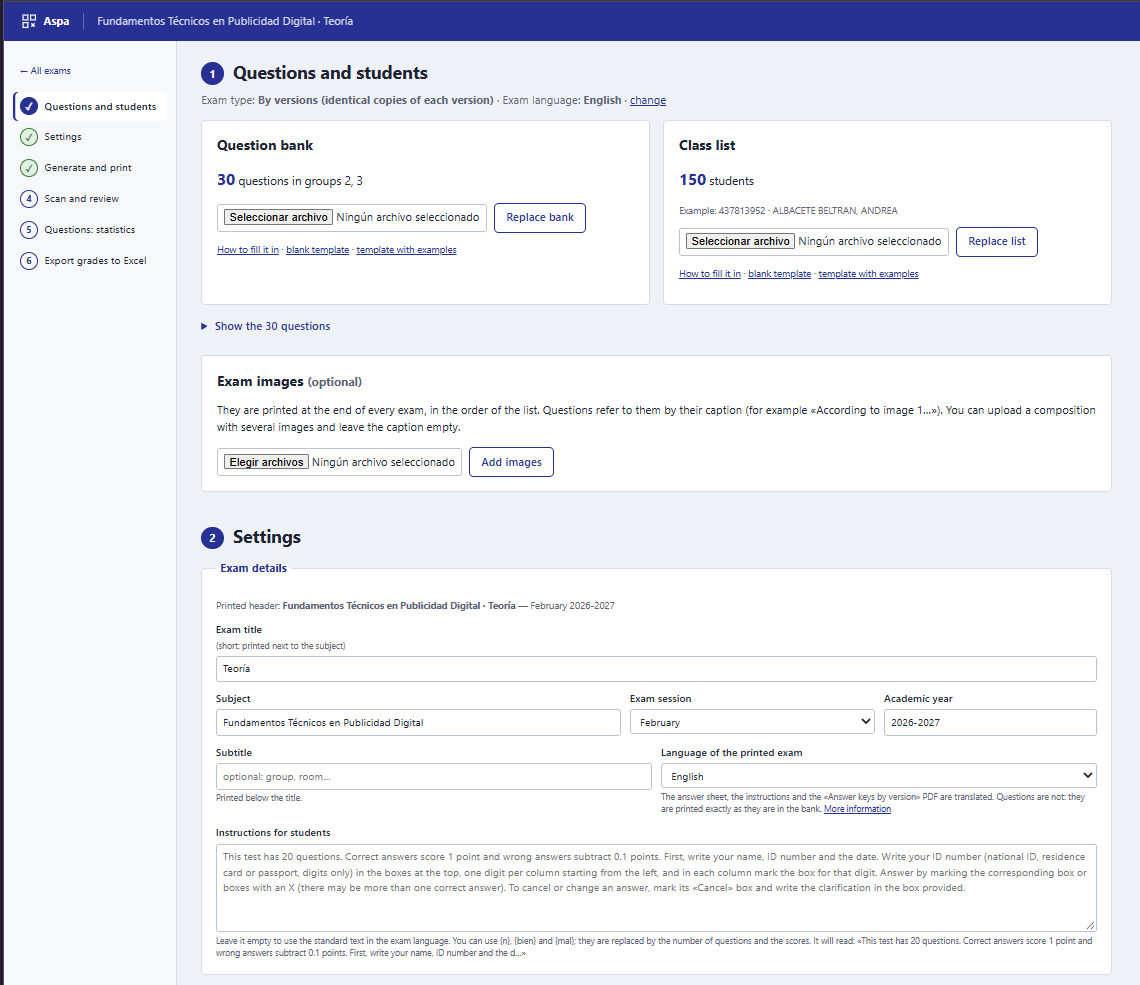
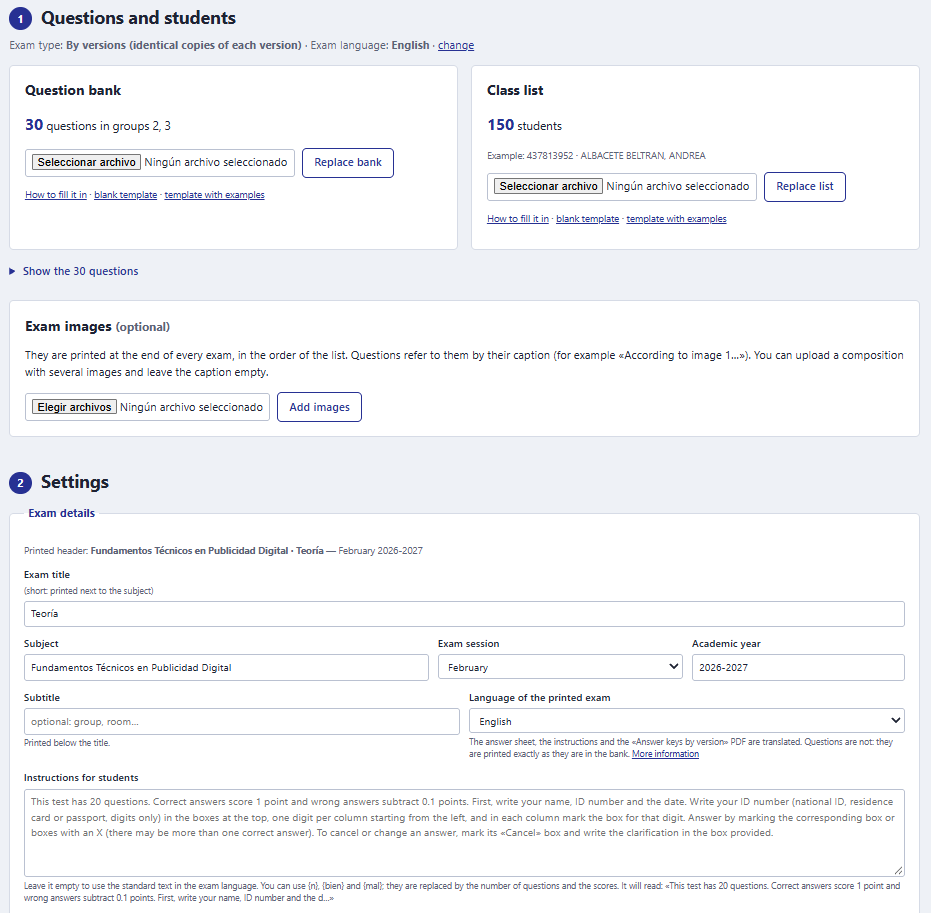
DOI and affiliations

Changed region(s): [[0.0, 0.0, 1.0, 1.0], [0.1869, 0.3067, 0.2803, 0.3373]]

diff --git a/SoftwareX/softwarex-osp-template.tex b/SoftwareX/softwarex-osp-template.tex
@@ -67,7 +67,7 @@
 \author[uca]{José Miguel Mota-Macías}
 \cortext[cor1]{Corresponding author.}
 
-\address[uca]{Department of Computer Science and Engineering, School of Engineering, University of Cádiz, Avda.\ de la Universidad de Cádiz 10, 11519 Puerto Real, Cádiz, Spain \todo{check department and address}}
+\address[uca]{Department of Computer Science and Engineering, School of Engineering, University of Cádiz, Avda.\ de la Universidad de Cádiz 10, 11519 Puerto Real, Cádiz, Spain}
 
 \begin{abstract}
 Grading paper-based multiple-choice exams requires either proprietary optical readers or tools that demand \LaTeX{} or programming skills. Aspa is a local web application that covers the complete cycle: it generates exam versions from a spreadsheet question bank, prints answer sheets with fiducial markers and a QR code, reads scans and mobile-phone photographs with computer vision, grades with negative marking and partial credit, and supports the review of each sheet with the student. It also generates personalised exams that omit the questions each student has already passed during the course. All processing is local, so students' data never leave the teacher's computer.
@@ -93,7 +93,7 @@ Multiple-choice exams \sep Optical mark recognition \sep Automated grading \sep 
 \hline
 \textbf{Nr.} & \textbf{Code metadata description} & \textbf{Please fill in this column} \\
 \hline
-C1 & Current code version & v1.0.0 \\
+C1 & Current code version & v1.0.0 (\url{https://doi.org/10.5281/zenodo.23571011}) \\
 \hline
 C2 & Permanent GitHub link to code/repository used for this code version & \url{https://github.com/lorenagmad/Aspa} \\
 \hline
@@ -154,7 +154,7 @@ Aspa was developed at the University of Cádiz to replace an in-house tool based
 \section{Software description}
 \label{sec:description}
 
-Aspa~1.0.0 is a Python application served by Flask on \file{127.0.0.1} and used through the browser. Launch scripts for Windows, macOS and Linux create a virtual environment and install the dependencies; a PyInstaller script builds a standalone executable. The interface is available in Spanish and English, and languages are added as JSON files.
+Aspa~1.0.0~\cite{aspa} is a Python application served by Flask on \file{127.0.0.1} and used through the browser. Launch scripts for Windows, macOS and Linux create a virtual environment and install the dependencies; a PyInstaller script builds a standalone executable. The interface is available in Spanish and English, and languages are added as JSON files.
 
 \subsection{Software architecture}
 \label{sec:architecture}
@@ -365,6 +365,8 @@ We thank José Carlos Collado Machuca, who created the Excel-based tool that pre
 
 \bibitem{alonso2022} F.~Alonso-Fernandez, J.~Bigun, Continuous examination by automatic quiz assessment using spiral codes and image processing, in: Proc.\ 13th IEEE Global Engineering Education Conference (EDUCON), Tunis, 2022. \url{https://arxiv.org/abs/2201.11228}
 
+\bibitem{aspa} L.~Gutiérrez-Madroñal, R.~Baena-Pérez, J.~M. Mota-Macías, Aspa v1.0.0, Zenodo, 2026. \url{https://doi.org/10.5281/zenodo.23571011}
+
 \bibitem{opencv} G.~Bradski, The OpenCV library, Dr.\ Dobb's Journal of Software Tools 25~(11) (2000) 120--125.
 
 \bibitem{garrido2014} S.~Garrido-Jurado, R.~Muñoz-Salinas, F.~J. Madrid-Cuevas, M.~J. Marín-Jiménez, Automatic generation and detection of highly reliable fiducial markers under occlusion, Pattern Recognition 47~(6) (2014) 2280--2292. \url{https://doi.org/10.1016/j.patcog.2014.01.005}
@@ -374,7 +376,7 @@ We thank José Carlos Collado Machuca, who created the Excel-based tool that pre
 \section*{Current executable software version}
 \label{sec:execversion}
 
-Aspa is run from source with the launch scripts of the repository; a standalone executable can be built with \file{herramientas/crear_ejecutable.py} \todo{add the link to the release with executables, if published}.
+Aspa is run from source with the launch scripts of the repository (\url{https://github.com/lorenagmad/Aspa}); a standalone executable can be built with \file{herramientas/crear_ejecutable.py}.
 
 \end{document}
 \endinput

diff --git a/SoftwareX/plan/chapter_plan.md b/SoftwareX/plan/chapter_plan.md
@@ -1,0 +1,166 @@
+# Aspa — SoftwareX Chapter Plan + INSIGHT Collection
+
+Produced in ARS `plan` mode (Socratic dialogue), 21–22 October 2026.
+All claims below are in the author's words or were explicitly confirmed by the author.
+This is a plan, not text for the article: the rewrite happens after the February trial.
+
+---
+
+## 1. Configuration
+
+| Item | Decision |
+|---|---|
+| Journal / type | SoftwareX, Original Software Publication (OSP template) |
+| Language | English |
+| Structure | The 5 mandatory template sections: Motivation and significance · Software description · Illustrative examples · Impact · Conclusions |
+| Length | ≤ 4,000 words (priority) and ≤ 6 pages excluding metadata, tables, figures and references |
+| Figures | Max. 6 → plan uses 4 |
+| Submission timing | After the February trial; "we have no deadline" — wait until all evidence is in |
+
+## 2. Thesis and contribution
+
+- **Thesis (confirmed):** "Aspa is a programme for generating and marking paper-based multiple-choice exams, which allows teachers to adapt it to the needs of their subject."
+- **Thesis type:** comparative, against other paper-based exam tools. Main strength: flexibility; second: efficiency. Moodle and online quizzes are out of scope.
+- **Distinguishing feature:** personalisation according to each student's progress. Aspa is criterion-neutral: "it's the teacher who decides which questions the student has passed."
+- **Contribution (W1):** "Aspa is a highly flexible tool that is easy to understand, and its configuration enables the continuous assessment required for the modules to be applied to students."
+- **Gap value (W2):** without Aspa, the teacher "would have to remove or cross out the questions the student has already completed … and remember, when marking their work, that these have already been completed. … with a large group of students, it is quite likely that there will be confusion and mistakes."
+- **Audience (W3):** "Readers may choose to use Aspa in their courses to speed up the marking of exams and improve the efficiency of the marking process."
+- **Closing line:** "Aspa: the exam generation and marking tool that can be adapted to assess any subject."
+
+## 3. Chapter Plan
+
+### Section 1 — Motivation and significance (~550–650 words; now ~450)
+
+- **Core argument:** efficiency is the hook and flexibility is the gap. Marking is slow, and "manually tailoring an exam to each student multiplies the work involved in setting and marking it, and in the end it simply doesn't get done." None of the existing tools personalises exams "according to the assessment in the subjects and the student's progress."
+- **Evidence:**
+  1. MCQ literature already in the draft (Haladyna, Ebel, Burton): the marking burden.
+  2. Two rationales for personalisation: mastery/exemption (Bloom 1968) **and** reward for participation in gamified quizzes. Cite **Gutiérrez-Madroñal & Collado Machuca (2018)**, verified: Kahoot quizzes, a ranking per topic, 0–5 questions removed per topic, counted as correct. Aspa is criterion-neutral.
+  3. Related software, plus the **comparison table** (see § 5).
+  4. Provenance: an in-house Excel-macro tool (created by J. C. Collado Machuca, used by the author since 2019, ≥3 subjects, ~1,300+ students). Personalisation was done by hand from 2017/18. The tool's problems became Aspa's requirements. Comparison is qualitative only.
+  5. The 6-step workflow stays here as the template's "experimental setting".
+- **Counter-argument → response:** "Existing tools already personalise (AMC)." → "Unlike AMC, Aspa generates the results based on the list of questions that have been answered correctly, counting them as correct without the need for any code."
+- **Strength:** Moderate, rising to Strong once the related-software check is done.
+
+### Section 2 — Software description (~850–950 words; now ~1,100)
+
+- **Core argument:** each limitation of the predecessor is solved by a visible design decision:
+
+  | Predecessor problem (author's words, condensed) | Aspa design decision |
+  |---|---|
+  | Configuration by editing cells, running macros from the Developer tab, deleting parts manually, worksheets of unclear purpose | One configuration form; question bank and class list uploaded as spreadsheets with example templates |
+  | Grading errors caused by misconfiguration | (1) simplified configuration; (2) grades never stored, always recomputed from plain files |
+  | Students wrote their ID on the outer border, so the sheet could not be read | **Reading:** QR code + clean fiducial border. **Identification:** redesigned digit grid, matched to the class list with wildcards and one-digit suggestions. In personalised exams the QR code also identifies the student |
+  | Multiple answers only via a workaround, and only 2 correct answers | Native multiple-answer keys (any subset of A–D), with template and explanation; partial or exact credit |
+
+- **Structure:** architecture (figure) → functionalities in workflow order: bank and class list → **Settings** (versions or personalised, images, 2–4 options, multiple answers, exam language independent of the interface, global weighting for correct and wrong answers) → answer sheet → reading → identification and flags → grading → review, statistics, export.
+- **Rewrite instructions (accepted, to apply in the later review):**
+  - Condense the reading (OMR) paragraph to 2–3 sentences and move the parameters (CLAHE, 7 mm kernel, thresholds, 220 dpi, 8 px/mm) to the README.
+  - State the grading rule in words and keep Table 2.
+  - Add images; state 2–4 options. Weighting is global; no per-question weights.
+- **No code snippet.**
+- **Strength:** Strong.
+
+### Section 3 — Illustrative examples (~600–700 words; now ~500)
+
+- **Core argument:** a teacher can run a whole continuous-assessment course, up to a personalised final exam, on paper, with reliable automatic reading.
+- **3.1 Teaching scenario** (fictitious data, the author's subject): bank with blocks → quizzes outside Aspa (Moodle) → teacher decides the passed questions → versioned **and** personalised final exams → scan → review → void or rekey → export. Timings on an **Intel Core i5-7600K @ 3.80 GHz**, an ordinary 2017 PC, which supports the efficiency claim.
+- **Phone example:** marks published the same day for a small sitting. The broader claim ("any exam session") depends on the paired February scan.
+- **3.2 Reading accuracy:** synthetic stress test (Table 3, 12,066 answers) **plus** February real sheets (anonymised): sheets read, flags by reason, manual corrections (`lecturas.json` vs `revision.json`).
+- **Screencast:** MP4 of the 6-step workflow, using fictitious data.
+- **Boundary with Section 4:** Section 3 = how Aspa performed; Section 4 = who uses it and what changed.
+- **Strength:** Strong (synthetic); real-data part pending February.
+
+### Section 4 — Impact (~600–700 words; now ~300)
+
+- **Core argument:** "Fewer mistakes, and consequently less stress and time saved." Personalisation that would not be done by hand becomes routine.
+- **Evidence:**
+  1. Teaching-innovation project since 2017/18, with a citable publication (2018, verified). Personalisation done by hand until the predecessor existed.
+  2. Author-approved sentence: "in most sittings some sheets had to be corrected by hand because of ID errors."
+  3. February trial: 2–3 subjects, different degrees, 3 teachers. Expected needs: different question counts, no personalisation, possibly multiple answers. The trial itself demonstrates the thesis.
+  4. Daily practice: preparation time, sheets reviewed by hand, flags by reason (measured in Section 3, interpreted here). Aspa removes the manual recalculation and re-entering of marks; the teacher only checks the sheets Aspa flags, each with a stated reason.
+  5. Research enabled: effects of rank-based personalisation on participation and grades; item analysis from exported per-option data. Keep only what is really planned.
+  6. Spread, stated honestly: early adoption; presentation at the UCA teaching-innovation call; AGPL; no commercial use.
+- **Strength:** Moderate. Impact is still mostly prospective and there are no external users yet.
+
+### Section 5 — Conclusions (~150–200 words)
+
+- **Core argument:** "Aspa: the exam generation and marking tool that can be adapted to assess any subject."
+- Recall: simpler configuration, a wider range of exam types, reliability and time saved, continuous assessment made routine. No new evidence.
+- **Limits:** up to 30 questions and 2–4 options, sized to the exams of these subjects ("the number of questions does not exceed 30 and we provide up to 4 answer options").
+- **Future work:** more questions; more options; use at other universities. "Validation on real scans" stays provisionally and is decided after February.
+- **Remove:** Moodle export; "eliminate manual corrections" wording.
+
+### Acknowledgements
+
+- J. C. Collado Machuca, creator of the Excel predecessor and co-author of the 2018 project.
+
+## 4. Argument stress test — final ratings
+
+| # | Sub-argument | Defence agreed with the author | Rating |
+|---|---|---|---|
+| A1 | No paper-based tool personalises by student progress | Targeted related-software check + table; AMC needs code | Moderate → Strong after the check |
+| A2 | Easiest | Both: "requires no programming or LaTeX" (table) **and** February usability data | Weak → Moderate |
+| A3 | Most comprehensive | Comparison table; drop columns every tool ticks | Moderate, pending verification |
+| A4 | Reader is reliable | Synthetic 12,066 answers + real February sheets | Strong |
+| A5 | Fewer mistakes, time saved | Qualitative sentence + February measures | Moderate |
+| A6 | Impact | 2018 publication + predecessor + multi-subject trial | Moderate |
+| — | "Why not ZipGrade, if I only want speed?" | "Anyone using ZipGrade will be posting their students' data online" (verify ZipGrade's data storage) | — |
+
+**Message order for the abstract:** flexibility (lead) → efficiency → local processing (no data leaves the teacher's computer). Do not write "GDPR-compliant".
+
+## 5. Comparison table
+
+Columns: personalisation by student progress · no programming/LaTeX required · images · scanner + phone reading · intuitive marking/review · real-time recalculation · local processing (no third-party data transfer). Weighting and languages dropped (author's decision, 22 Oct 2026).
+
+Rows: Aspa, AMC, R/exams, FormScanner, OMRChecker, ZipGrade, Remark OMR, plus any tool found by the targeted search. Drop any column that every tool ticks. Every cell must be checked against the tool's documentation.
+
+**Verified 22 Oct 2026 → see [comparison_table.md](comparison_table.md)** (cells, sources, wording consequences, new related work).
+
+## 6. Word budget
+
+| Section | Target | Current |
+|---|---|---|
+| 1 Motivation and significance | 550–650 | ~450 |
+| 2 Software description | 850–950 | ~1,100 |
+| 3 Illustrative examples | 600–700 | ~500 |
+| 4 Impact | 600–700 | ~300 |
+| 5 Conclusions | 150–200 | ~150 |
+| **Total** | **2,750–3,200** (limit 4,000) | ~2,500 |
+
+## 7. Pending tasks
+
+**Now (before February)**
+- [ ] Request the university's consent for the trial data, and find out whether individual student consent is also required.
+- [ ] Confirm the two colleagues' participation and what each subject needs.
+- [x] Targeted related-software search and cell verification (22 Oct 2026; see comparison_table.md). Eyegrade cells and O'Malley DOI verified; C4/C5 dropped, C7/C8 kept. Moodle Offline quiz: excluded (author's decision).
+- [ ] Regenerate the Settings screenshots (a)(b) with fictitious data if needed.
+- [ ] Record the screencast (fictitious data).
+- [ ] Add the 2018 proceedings paper to the bibliography: pp. 54–59 (confirmed by the author), ISBN 978-84-09-04190-9.
+- [ ] Fill `\todo`s: processor model (i5-7600K @ 3.80 GHz), address/department, link to an executable release.
+- [ ] README: add the OMR parameters moved out of the paper.
+
+**February trial (≥ 40 sheets per group)**
+- [ ] Scan the same sheets with the scanner **and** the phone (paired comparison).
+- [ ] Check every sheet by hand once (ground truth); compare `lecturas.json` with `revision.json`.
+- [ ] Record preparation time, flags by reason, manual corrections, and the settings each subject used.
+
+**Applied to the .tex on 22 Oct 2026 (changes that don't depend on February):** Motivation (bridge sentence, two rationales + 2018/O'Malley/Alonso-Fernandez citations, related work corrected, Eyegrade, predecessor), comparison Table 2, settings Figure 2, images and 2–4 options, design fixes (recomputed grades, QR/grid), processor, Use paragraph (Feb data still `\todo`), Conclusions (limits, future work, Moodle removed), Acknowledgements (Collado). No cuts yet.
+
+**Rewrite (after February)**
+- [ ] Apply the section plans above, the rewrite instructions in Section 2, and the removals in Section 5.
+- [ ] Declarations required by Elsevier: competing interests, CRediT, ethics/consent statement for the trial data.
+
+## 8. INSIGHT Collection
+
+- `thesis_statement`: see § 2 (confirmed).
+- `provenance`: Excel-macro predecessor by J. C. Collado Machuca; author's use since 2019; ≥3 subjects; ~1,300+ students.
+- `origin_personalisation`: gamified quizzes (Kahoot, later Moodle) → ranking per block → best students get questions counted as correct; published 2018.
+- `predecessor_failures`: complex configuration; occasional grading failures; personalisation as a separate version; multiple answers patched in, max. 2; students' ID errors.
+- `requirement_to_design`: § 3, Section 2 table.
+- `gap`: "None has the option to personalise exams according to the assessment in the subjects and the student's progress."
+- `mobile_use_case`: special or second sittings; publish marks the same day.
+- `personalisation_v1`: confirmed in v1.0; the teacher removes the questions of any block a student has passed.
+- `trial_measures`: preparation time; exams marked by hand; sheets reviewed in Aspa by reason (ID not on the list, doubtful ID marks, doubtful answer marks); perceived simplicity.
+- `scope_decisions`: Moodle out; images in; global weighting; 2–4 options; limits in Conclusions; no code snippet; old vs. new sheet comparison as text only.
+- `contribution_claim`, `contribution_gap_value`, `contribution_audience`: § 2.
+- `future_work`: >30 questions; >4 options; other universities; real-scan validation decided after February.

diff --git a/SoftwareX/plan/comparison_table.md b/SoftwareX/plan/comparison_table.md
@@ -1,0 +1,94 @@
+# Comparison table: verified cells (checked 22 October 2026)
+
+Every cell for the other tools comes from the tool's own documentation, repository or website (sources below).
+Aspa's row was checked against its code.
+Legend: ✓ yes · ◐ partial · ✗ no · ? not documented (do **not** write "no" in the paper) · N/A the tool does not produce exam papers.
+
+## Columns
+
+| ID | Column | Definition used for checking |
+|---|---|---|
+| C1 | Personalisation by student progress | One exam per student that omits the questions that student passed, which then count as correct when grading, built in |
+| C2 | No programming/LaTeX required | The full create → grade workflow works from a GUI or spreadsheets |
+| C3 | Images | Images can be included in the exam paper |
+| C6 | Scanner + phone reading | Documented reading of both scanner images and phone photographs |
+| C7 | Interactive review | GUI showing the scan with detected marks, editable |
+| C8 | Real-time recalculation | Changing the key, voiding a question or changing scoring regrades without rescanning |
+| C9 | Local processing | Student data and scans are processed on the teacher's machine; no third-party transfer |
+
+## Table
+
+| Tool | C1 | C2 | C3 | C6 | C7 | C8 | C9 | Generates exams | Licence |
+|---|---|---|---|---|---|---|---|---|---|
+| **Aspa** | ✓ | ✓ | ✓ | ✓ | ✓ | ✓ | ✓ | ✓ | AGPL-3.0 |
+| AMC | ✗ (only with hand-written LaTeX) | ◐ (questions in LaTeX/AMC-TXT) | ✓ | ? | ✓ | ✓ | ✓ | ✓ | GPLv2+ |
+| R/exams | ✗ (only with R code) | ✗ | ✓ | ? | ◐ (from R) | ◐ (R code) | ✓ | ✓ | GPL-2/3 |
+| FormScanner | ✗ | ◐ (cannot create exams) | N/A | ? | ✓ | ? | ✓ | ✗ | GPLv3 |
+| OMRChecker | ✗ | ✗ (CLI + JSON) | N/A | ✓ | ✗ | ◐ | ✓ | ✗ | MIT |
+| ZipGrade | ✗ | ✓ | N/A | ✓ | ✓ | ? | ✗ (syncs by default; can be disabled) | answer sheets only | proprietary |
+| Remark OMR | ✗ | ✓ | N/A | ? | ✓ | ✓ | ✓ (optional cloud OCR add-on) | ✗ | proprietary |
+| Eyegrade | ✗ (models A, B, C… only) | ◐ (questions in XML + LaTeX template, or word processor with manual configuration) | ✓ | ◐ (live webcam only; scans/photos not documented) | ✓ | ? | ✓ | ✓ | GPLv3+ |
+
+Eyegrade cells were checked against its user manual (eyegrade.org/doc/user-manual/, §§2, 2.4, 2.8, 4.1.1, 4.2, 5.2) on 22 Oct 2026.
+
+## What this changes in the paper
+
+1. **The unique claim survives, provided it is worded precisely.** No tool checked offers C1 as a **built-in, no-code** feature. AMC can do something similar only if the teacher writes LaTeX: its grading normalises each copy by its own perfect score, so omitted questions are neutral, not credited. R/exams needs an R loop. OMRChecker can give "bonus marks" per folder by editing JSON, but it does not generate exams.
+   - Safe wording: "none provides it as a built-in feature that requires no code".
+   - Avoid "no tool can".
+2. **ZipGrade:** "syncs scores, student information and scan images to its servers by default" (privacy policy, effective 3 June 2021). Teachers can turn the sync off.
+   - Do **not** write "ZipGrade users must put student data online".
+3. **Phone reading:** only ZipGrade and OMRChecker document it. For AMC, R/exams, FormScanner and Remark it is undocumented. Write "documented support", never "cannot".
+4. **Correction to the current draft:** the draft says FormScanner and OMRChecker "neither generate nor grade versioned exams". OMRChecker **does grade** (`evaluation.json`, negative marking, weighted combinations). Rewrite as "read and score answer sheets but do not generate exams".
+5. **The draft's AMC claim stands with nuance:** "runs only on Linux and macOS". Windows is possible only through WSL or a VM.
+
+## Columns dropped (author's decision, 22 Oct 2026)
+
+- **C4 Weighting:** dropped, because every tool that grades offers it.
+- **C5 Languages:** dropped for the v1.0 comparison. Aspa accepts any number of languages as JSON files, but v1.0 ships es and en, while AMC has 8+ and R/exams about 34.
+- **C7 Interactive review** and **C8 Recalculation:** kept, although AMC and Remark OMR match Aspa on both.
+
+The verified C4/C5 cells for the other tools remain in the sources below, in case a reviewer asks.
+
+## How to use the two closest precedents (author to decide)
+
+- **O'Malley (2025)** *supports* the method: an instructor at another university arrived independently at "omit what the student already passed", from 2016. His tooling is a Word mail merge plus grading by hand, which illustrates the author's W2 point: without software, the teacher has to assemble each exam and keep track of what each student already passed.
+- **Alonso-Fernandez & Bigun (2022)** is the closest *system*: passing weekly paper quizzes exempts students from the final exam or from the matching part of it. Its granularity is the exam or part, not the question, and its software is not released.
+- Aspa's position against both: it automates the whole cycle at question level (generate → read → credit the passed questions → grade), with no code and as released open software.
+
+## Moodle Offline quiz: excluded (author's decision, 22 Oct 2026)
+
+Left out of the table and the paper. Verified cells, kept here in case a reviewer asks:
+- C1 ✗: up to 6 groups, no per-student exams.
+- C2 ✓, C3 ✓, C4 ✓, C5 ◐, C6 ? (scanned images only).
+- C7 ✓, C8 ✓ ("existing results were regraded automatically").
+- C9 ◐: processing on the institution's Moodle server.
+- GPLv3.
+
+Answer if raised: it needs a Moodle server and works with groups, not with per-student exams based on progress.
+
+## New related work found by the search
+
+| Ref | Why it matters | Status |
+|---|---|---|
+| F. Alonso-Fernandez, J. Bigun, "Continuous Examination by Automatic Quiz Assessment Using Spiral Codes and Image Processing", IEEE EDUCON 2022, arXiv:2201.11228 | **Closest prior art.** Paper weekly quizzes; passing them lets a student skip the final exam or the matching part of it; individualised quizzes; automatic reading. No per-question removal credited as correct; code not released. | Full text checked; the exemption is stated in Sections I, IV and V |
+| J. Arias Fisteus, A. Pardo, N. Fernández García, "Grading Multiple Choice Exams with Low-Cost and Portable Computer-Vision Techniques", J. Sci. Educ. Technol. 22(4) (2013) 560–571, doi:10.1007/s10956-012-9414-8 (Eyegrade) | Closest open-source system: Python, computer vision, webcam, a Spanish university, GPLv3. Exams are generated from LaTeX. | Cells verified against the user manual |
+| F. Teubl, V. Batista, F. Zampirolli, "MakeTests: Generate and Correct Individualized Questions with Many Styles", CSEDU 2021, 245–253, doi:10.5220/0010337902450253 | Open-source individualised (parametric) exams, not based on progress | Found by the search |
+| Gradescope bubble sheets (Turnitin) | The dominant cloud alternative; expect "why not Gradescope?" | Checked through university guides only |
+| P. O'Malley, "Individualized Optional Retake Method for Final Exams", ASEE Midwest 2025, doi:10.18260/1-2-1153-57848 | **Independent pedagogical precedent** (used since 2016; Statics and Dynamics, 38 and 35 students). Each student gets an individualised final exam containing only the topics where they lost points. A topic already solved correctly does not appear ("would not see a truss problem on the final"), and its mid-semester score stands. Retakes are optional, and the new score replaces the old one. Open-ended problems, graded by hand; exams built by **Word mail merge from the gradebook**; no OMR, no software release. | DOI verified in Crossref; full text read (PDF supplied by the author, 22 Oct 2026) |
+| Y. Hernández-Mier et al., J. Imaging 11(9):308 (2025), doi:10.3390/jimaging11090308 | Recent OMR accuracy baseline (99.95%) | Optional |
+
+The search found no SoftwareX or JOSS paper on a paper-exam OMR/generation tool. Do not claim "first in SoftwareX" without checking again just before submission.
+
+## Sources (other tools)
+
+- AMC: auto-multiple-choice.net/doc/specific/, /doc/usage/, /doc/amc-txt/, /doc/scoring/, /doc/latex/, /install/
+- R/exams: CRAN `exams` man pages (exams2nops, exams_eval, nops_scan, nops_fix, nops_eval), r-exams.org/templates/
+- FormScanner: sourceforge.net/projects/formscanner/ and its CHANGELOG wiki; sites.google.com/site/examgrader
+- OMRChecker: github.com/Udayraj123/OMRChecker (README; wiki "[v2] About Evaluation")
+- ZipGrade: zipgrade.com/privacy/ (effective 3 June 2021; checked again 22 Oct 2026); support.zipgrade.com articles 360047612211, 21880513310989, 45705262770445, 201168729, 37328081315981, 201168769
+- Remark OMR: Remark Office OMR User's Guide (2025), 12.1 release notes, products/office-omr/test-grading/
+- Moodle Offline quiz: github.com/academic-moodle-cooperation/moodle-mod_offlinequiz (lang/en strings); docs.moodle.org Multiple Choice question type
+- Eyegrade: eyegrade.org (home) and eyegrade.org/doc/user-manual/
+- O'Malley: api.crossref.org/works/10.18260/1-2-1153-57848
+- Aspa: `examtool/calificar.py:141-145` (passed questions credited), `examtool/pdf.py` (images), no outbound network calls in `app.py`/`examtool`
